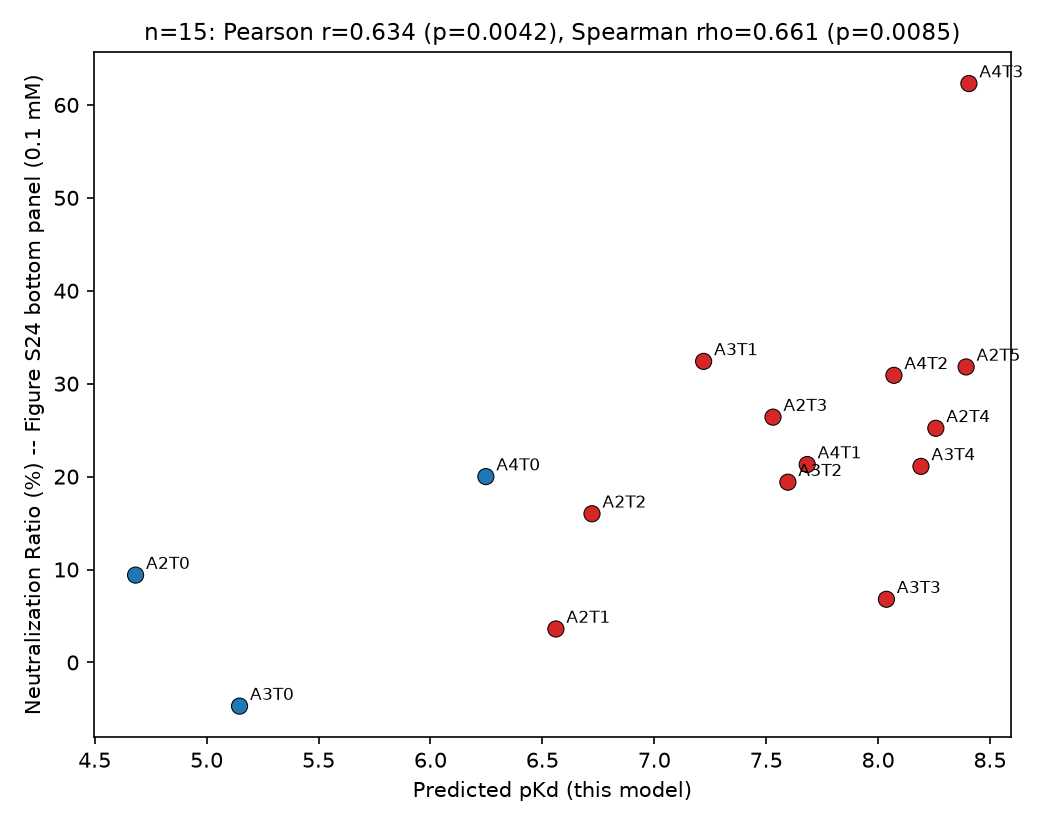
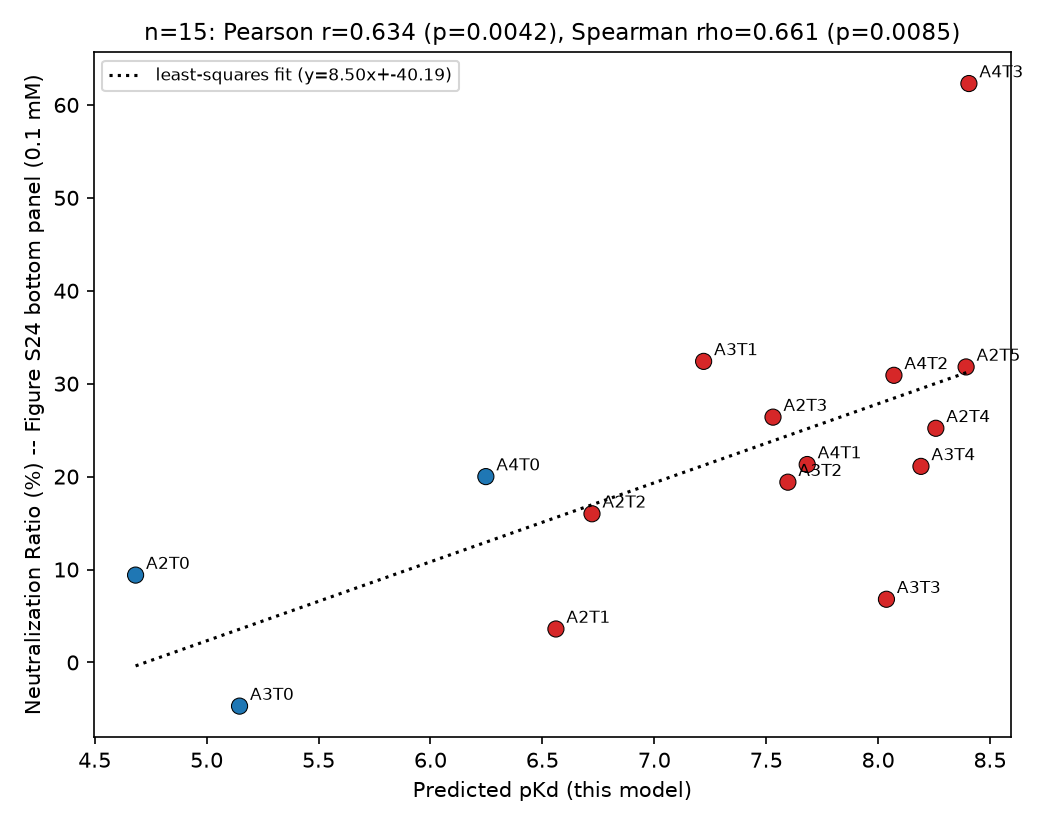
Add least-squares trend line to Hoshino correlation scatter plot

Changed region(s): [[0.0914, 0.0606, 0.4267, 0.1212]]

diff --git a/scripts/plot_hoshino_scatter.py b/scripts/plot_hoshino_scatter.py
@@ -59,6 +59,13 @@ colors = ["tab:blue" if label.endswith("T0") else "tab:red" for label in sub["la
 
 fig, ax = plt.subplots(figsize=(7, 5.5))
 ax.scatter(sub[PRED_COL], sub["neutralization"], c=colors, s=60, edgecolor="black", linewidth=0.5)
+
+slope, intercept = np.polyfit(sub[PRED_COL], sub["neutralization"], 1)
+x_line = np.array([sub[PRED_COL].min(), sub[PRED_COL].max()])
+ax.plot(x_line, slope * x_line + intercept, linestyle=":", color="black", linewidth=1.5,
+       label=f"least-squares fit (y={slope:.2f}x+{intercept:.2f})")
+ax.legend(fontsize=8, loc="upper left")
+
 for _, row in sub.iterrows():
     ax.annotate(row["label"], (row[PRED_COL], row["neutralization"]),
                textcoords="offset points", xytext=(5, 3), fontsize=8)
